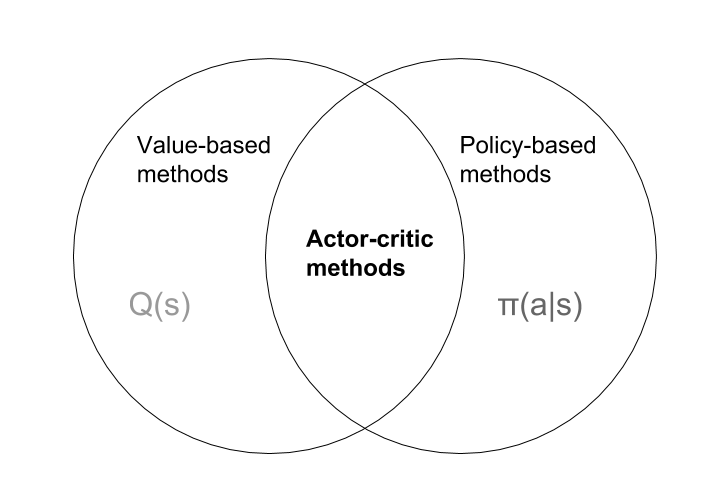
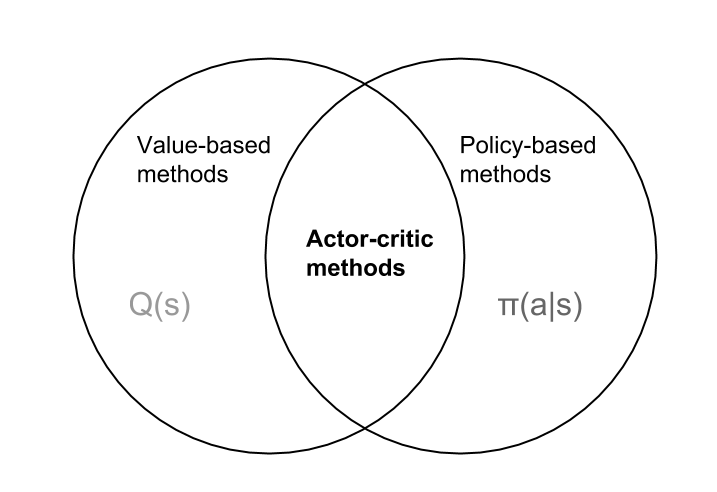
Update on Overleaf.

diff --git a/chapters/reinforcement_learning.tex b/chapters/reinforcement_learning.tex
@@ -31,7 +31,7 @@ Algorithms in machine learning and artificial intelligence are often divided int
 
 Fundamental to any reinforcement learning algorithm is the agent and the environment with which the agent is interacting. As mentioned in the introduction, an agent is the decision maker that observes a state $s$ and decides what action $a$ to take. An example can be a self-driving vehicle that receives an observation $s$ in the from of input from cameras and sensors placed on the vehicle. The observation $s$ represent the state of the system, and based on that the self-driving car must chose an action $a$. The action might be to turn the wheel to the right which in turn leads to a new observation from the cameras and sensors on the vehicle.
 
-The set of possible actions and states are respectively called the action space $\mathcal{A}$ and state space $\mathcal{S}$. For some reinforcement learning tasks, such as chess, the action space depends on the state $s$. For instance, it is not allowed to castle if an opponents piece is attacking your king. In such cases, the action space $\mathcal{A}(s)$ is given by the state $s$. The action space in an electric power system is dependent on the state, for instance if a power plant or transmission line is out of operation. A central element in the reinforcement algorithm is the reward function $r: \mathcal{S} \times \mathcal{A} \to \mathcal{R} \subseteq \mathbb{R}$ that evaluates how "good" action $a$ is in state $s$. For instance, the reward given to the agent in car race can be the the speed of the car so that the agent is incentived to drive fast.
+The set of possible actions and states are respectively called the action space $\mathcal{A}$ and state space $\mathcal{S}$. For some reinforcement learning tasks, such as chess, the action space depends on the state $s$. For instance, it is not allowed to castle if an opponents piece is attacking your king. In such cases, the action space $\mathcal{A}(s)$ is given by the state $s$. The action space in an electric power system is dependent on the state, for instance if a power plant or transmission line is out of operation. A central element in the reinforcement algorithm is the reward function $r: \mathcal{S} \times \mathcal{A} \to \mathbb{R}$ that evaluates how "good" action $a$ is in state $s$. For instance, the reward given to the agent in car race can be the the speed of the car so that the agent is incentived to drive fast.
 
 The goal at each time step $t$ is to maximise the rewards in the future. How to formally define the reward maximising criterion depends on the nature of the task. Some tasks, such as playing a video game, are called episodic and have well-defined boundaries for initial and terminal state. On the other hand, the electric power system is a continuous task that never should end if the agent does its job. For continuous tasks, let the discounted return $r^{\gamma}_{t}$ at time $t$ be defined as 
 
@@ -151,7 +151,7 @@ A problem that arises when constructing a reinforcement learning algorithm is ho
 \section{Actor-critic reinforcement learning}
 There are two main categories of reinforcement learning algorithms: model-based and model-free reinforcement learning. Model-based algorithm uses the dynamics of the system to plan actions. For instance, the transition function $p$ in equation \eqref{eq:theory:markov_transition}  gives a probability distribution over the next state and reward, which can be used for planning in dynamic programming \cite{silver_course}. The reinforcement algorithm is explicitly using a model of the environment to chose actions. However, for many situations the transition function is unknown, and even if it is known it can be very computationally expensive to use in a reinforcement algorithm.
 
-The second category is called model-free reinforcement learning. As the name suggest, it requires no information about the dynamics in the environment. This is very useful in situations where there are no transition function that describes the dynamics in the environment, but experiences can be sampled. Model-free algorithms can be divides into two subcategories: Value-based and policy-based. The categories are visualised in figure \ref{fig:theory:rl_model_modelfree}.
+The second category is called model-free reinforcement learning. As the name suggest, it requires no model or information about the dynamics in the environment. This is very useful in situations where there are no transition function that describes the dynamics in the environment, but experiences can be sampled. Model-free algorithms can be divides into two subcategories: Value-based and policy-based. The categories are visualised in figure \ref{fig:theory:rl_model_modelfree}.
 
 
 \begin{figure}[ht!]
@@ -162,13 +162,13 @@ The second category is called model-free reinforcement learning. As the name sug
 \end{figure}
 
 
-The first subcategory is called value-based reinforcement learning, where the approach is to approximate the action-value function $Q$, and use that to take an action. An example of value-based is Q-learning, SARSA and DQN \cite{Sutton1998}. An advantage of value-based methods is that they can learn off-policy, for instance by learning from the behaviour of experts \cite{value_based_policy_Nachum}. Value-based method are therefore very sample efficient as they do not need to find optimal moves themselves, but can learn from a behaviour that is known to be good. The disadvantage is that value-based methods are not well suited for function approximation, such as neural networks, as they tend to be unstable \cite{Sutton1998}. 
+The first subcategory of model-free algorithm is called value-based methods, where the approach is to approximate the action-value function $Q$, and use that to take an action. An example of value-based is Q-learning, SARSA and DQN \cite{Sutton1998}. An advantage of value-based methods is that they can learn off-policy, for instance by learning from the behaviour of experts \cite{value_based_policy_Nachum}. Value-based method are therefore very sample efficient as they do not need to find optimal moves themselves, but can learn from a behaviour that is known to be good. The disadvantage is that value-based methods are not well suited for function approximation, such as neural networks, as they tend to be unstable \cite{Sutton1998}. 
 
-Policy-based methods (also called policy gradient) directly parametrise the policy function $\pi$ that results in the best behaviour without involving the action-value function $Q$ in the decision-making \cite{Sutton1998}. In contrast to value-based methods, they are stable when using function approximation, but very sample inefficient \cite{value_based_policy_Nachum}. In other words, the weakness of value-based methods is the advantage of the policy-based methods, and vice versa. A natural idea is then to combine the two methods into a more robust method. Enter the the actor-critic model. The actor-critic model is a mix of policy-based and value-based reinforcement learning, as illustrated in figure \ref{fig:theory:Actor-critic}. The policy $\pi$ is called the actor, because it chose the action to take. The action-value function $Q$ is named the critic because it evalutes the action picked by the actor.
+Policy-based methods (also called policy gradient) directly parametrise the policy function $\pi$ without involving the action-value function $Q$ in the decision-making \cite{Sutton1998}. In contrast to value-based methods, they are stable when using function approximation, but very sample inefficient \cite{value_based_policy_Nachum}. In other words, the weakness of value-based methods is the advantage of the policy-based methods, and vice versa. A natural idea is then to combine the two methods into a more robust method. Enter the the actor-critic model. The actor-critic model is a mix of policy-based and value-based reinforcement learning, as illustrated in figure \ref{fig:theory:Actor-critic}. The policy $\pi$ is called the actor, because it chooses the action to take. The action-value function $Q$ is named the critic because it evaluates the action picked by the actor.
 
 \begin{figure}[ht!]
     \center
-    \includegraphics[height=5cm, width=10cm]{figures/Actor-critic.png}
+    \includegraphics[height=6cm, width=10cm]{figures/Actor-critic.png}
     \caption[size = 9]{Actor-critic in relation to value-based and policy-based methods}
     \label{fig:theory:Actor-critic}
 \end{figure}
@@ -177,7 +177,7 @@ Policy-based methods (also called policy gradient) directly parametrise the poli
 \section{Deep deterministic policy gradient}
 Silver et. al have developed an off-policy reinforcement algorithm called deep deterministic policy gradient (DDPG) \cite{pmlr-v32-silver14}. As the name suggest, the algorithm uses a deterministic approximation of the policy function instead of a stochastic version. The advantage with a deterministic policy is that it does not have to integrate over action space in the search for the best policy. This section will outline the differences between stochastic and deterministic policy function. Both cases share similarities with each other. DDPG models the problem as a Markov decision problem as described in section \ref{section:markov_decision_process}.
 
-The initial state distribution is described by $p_{1}(s_{1})$. There is a reward function $r: \mathcal{S} \times \mathcal{A} \to \mathcal{R} \subseteq \mathbb{R}$ and an action value function $Q^{\pi}:\mathcal{S} \times \mathcal{A} \to \mathbb{R}$ that evaluates an action $a$ in state $s$ under the policy $\pi$. The policy interacts with the environment by taking actions and generates a trajectory of states, action and rewards 
+The initial state distribution is described by $p_{1}(s_{1})$. There is a reward function $r: \mathcal{S} \times \mathcal{A} \to \mathbb{R}$ and an action value function $Q^{\pi}:\mathcal{S} \times \mathcal{A} \to \mathbb{R}$ that evaluates an action $a$ in state $s$ under the policy $\pi$. The policy interacts with the environment by taking actions and generates a trajectory of states, action and rewards 
 \begin{equation}
    \begin{aligned}\label{eq:theory:trajectory2}
 h_{1:T} = s_{1},a_{1},r_{1},..., s_{T},a_{T},r_{T}
@@ -212,7 +212,7 @@ The performance objective can then be expressed as an expectation
     \mathbb{E}_{s\sim \rho^{\pi},a \sim \pi_{\theta}}[r(s,a)]
 \end{aligned} 
 \end{equation}
- The way the agent learns is by computing the gradient of the objective with respect to the policy parameters $\theta$ and update the weights in that direction. The gradient of the stochastic policy is given is given by the policy gradient theorem (Sutton \cite{Sutton1998}) in equation \eqref{eq:theory:stochastic_gradient}.
+ The way the agent learns is by computing the gradient of the objective with respect to the policy parameters $\theta$ and update the weights in that direction. The gradient of the stochastic policy is given by the policy gradient theorem (Sutton \cite{Sutton1998}) in equation \eqref{eq:theory:stochastic_gradient}.
 
 \begin{equation}
    \begin{aligned}\label{eq:theory:stochastic_gradient}
